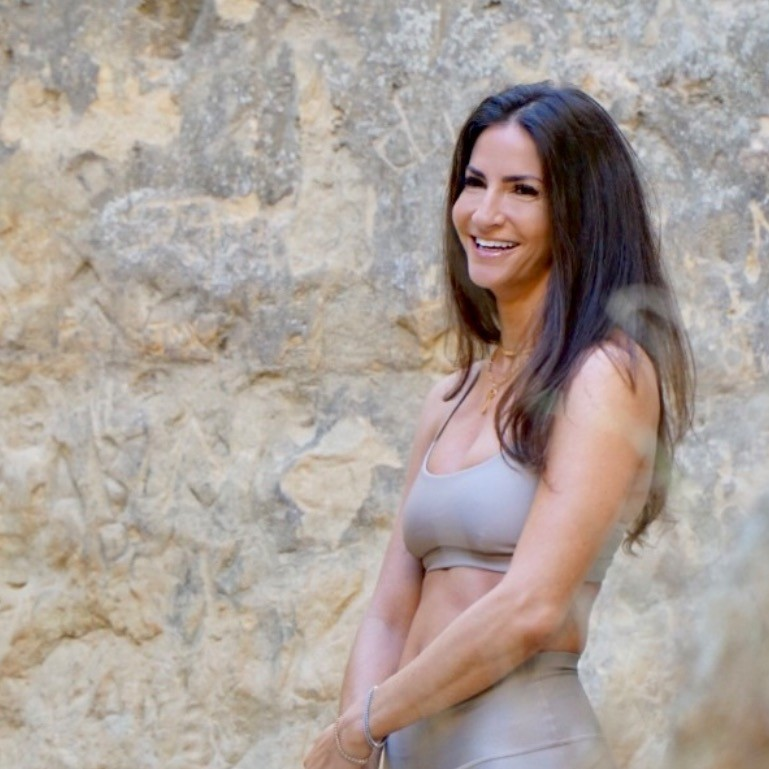
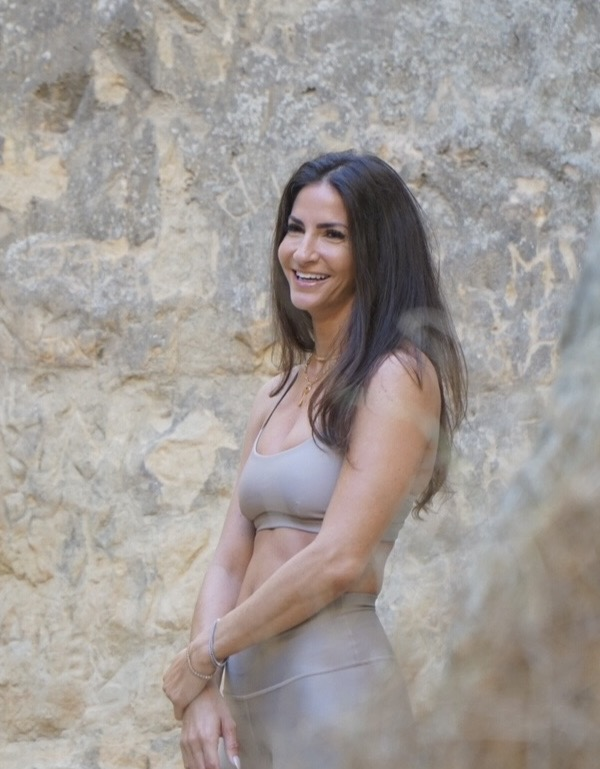
High-res portrait, mobile sticky CTA, scroll reveals, per-device polish

diff --git a/index.html b/index.html
@@ -376,6 +376,62 @@
   @media (max-width:760px){.story-grid{grid-template-columns:1fr}.story-portrait{max-width:270px;margin:0 auto}}
   .story-portrait{margin:0;padding:12px 12px 0;border:1px solid var(--band-line);border-radius:999px 999px 2px 2px}
   .story-portrait img{width:100%;display:block;border-radius:987px 987px 2px 2px}
+  /* ---------- DESKTOP FLOURISHES ---------- */
+  @media (min-width:761px){
+    .photo-wide{position:relative}
+    .photo-wide::after{
+      content:"";position:absolute;inset:16px -16px auto 16px;height:calc(100% - 32px);
+      border:1px solid var(--gold-soft);border-radius:2px;opacity:.55;pointer-events:none;
+    }
+    .story-portrait{position:relative;top:8px}
+  }
+
+  /* ---------- MOBILE TREATMENT ---------- */
+  @media (max-width:640px){
+    body{font-size:16px;line-height:1.7}
+    section{padding:60px 0 8px}
+    .hero{min-height:100svh;padding:80px 22px 96px}
+    .breath-ring{width:112px;height:112px;margin-bottom:36px}
+    .hero-meta{gap:10px;margin-bottom:36px}
+    .meta-pill{padding:9px 18px;font-size:.68rem}
+    .lede{font-size:1.4rem}
+    .band{margin-top:64px;padding:68px 22px}
+    .band p{font-size:1.18rem}
+    .invite-card{padding:40px 22px}
+    .invite-facts{gap:10px}
+    .fact{min-width:0;flex:1;padding:16px 12px}
+    .fact .n{font-size:1.9rem}
+    .form-card{padding:34px 20px}
+    .pairs li{padding:22px 2px}
+    .pairs .claim{font-size:1.22rem}
+    .proof{padding:34px 26px}
+    .photo-sec{padding:52px 0 0}
+    .remember{font-size:1.22rem;margin-top:44px}
+    .steps{margin:34px 0 40px}
+  }
+
+  /* ---------- SCROLL REVEAL ---------- */
+  .reveal{opacity:0;transform:translateY(22px);transition:opacity .8s ease,transform .8s ease}
+  .reveal.in{opacity:1;transform:none}
+  @media (prefers-reduced-motion: reduce){.reveal{opacity:1;transform:none;transition:none}}
+
+  /* ---------- MOBILE STICKY CTA ---------- */
+  .mobile-cta{
+    position:fixed;left:0;right:0;bottom:0;z-index:50;
+    display:none;align-items:center;justify-content:space-between;gap:14px;
+    background:var(--band);color:var(--band-ink);
+    border-top:1px solid var(--band-line);
+    padding:12px 18px calc(12px + env(safe-area-inset-bottom));
+    transform:translateY(110%);transition:transform .45s ease;
+  }
+  .mobile-cta.show{transform:none}
+  .mobile-cta .mc-txt{display:flex;flex-direction:column;line-height:1.35;min-width:0}
+  .mobile-cta .mc-txt b{font-family:'Cormorant Garamond',Georgia,serif;font-weight:600;font-size:1.05rem;white-space:nowrap}
+  .mobile-cta .mc-txt span{font-size:.68rem;letter-spacing:.14em;text-transform:uppercase;color:var(--gold-soft)}
+  .mobile-cta .mc-btn{padding:13px 26px;font-size:.7rem;flex:none}
+  @media (max-width:760px){.mobile-cta{display:flex}}
+  @media (prefers-reduced-motion: reduce){.mobile-cta{transition:none}}
+
   footer{
     border-top:1px solid var(--line);margin-top:96px;
     padding:44px 24px 56px;text-align:center;
@@ -617,6 +673,11 @@
   <p class="tag">Wellness · Mindfulness · Embodied Practice</p>
 </footer>
 
+<div class="mobile-cta" id="mobileCta" aria-hidden="true">
+  <div class="mc-txt"><b>The 22 Day Reset</b><span>Begins 11·11 · $111</span></div>
+  <a class="btn btn-gold mc-btn" href="#reserve">Reserve</a>
+</div>
+
 <script>
 (function(){
   var radios=document.querySelectorAll('.radio-opt');
@@ -666,6 +727,34 @@
     params.push('entry.1502971467='+encodeURIComponent(contact.value));
     window.open(FORM+'?'+params.join('&'),'_blank','noopener');
   });
+
+  var sections=document.querySelectorAll('section, .band, footer');
+  sections.forEach(function(s){s.classList.add('reveal')});
+  if('IntersectionObserver' in window){
+    var io=new IntersectionObserver(function(es){
+      es.forEach(function(e){if(e.isIntersecting){e.target.classList.add('in');io.unobserve(e.target)}});
+    },{rootMargin:'0px 0px -8% 0px'});
+    sections.forEach(function(s){io.observe(s)});
+  }else{
+    sections.forEach(function(s){s.classList.add('in')});
+  }
+
+  var bar=document.getElementById('mobileCta');
+  var reserve=document.getElementById('reserve');
+  var reserveVisible=false;
+  if('IntersectionObserver' in window){
+    new IntersectionObserver(function(es){
+      es.forEach(function(e){reserveVisible=e.isIntersecting;update()});
+    },{threshold:.05}).observe(reserve);
+  }
+  function update(){
+    var past=window.scrollY>window.innerHeight*.85;
+    var show=past&&!reserveVisible;
+    bar.classList.toggle('show',show);
+    bar.setAttribute('aria-hidden',show?'false':'true');
+  }
+  window.addEventListener('scroll',update,{passive:true});
+  update();
 })();
 </script>
 

diff --git a/wellness/index.html b/wellness/index.html
@@ -485,6 +485,25 @@
     margin-top:6px;
   }
 
+  @media (max-width:640px){
+    body{font-size:16px;line-height:1.7}
+    section.practice{padding:60px 0 8px}
+    .hero{min-height:100svh;padding:80px 22px 72px}
+    .breath-ring{width:112px;height:112px;margin-bottom:36px}
+    .intro{padding:64px 0 16px}
+    .intro p.lede{font-size:1.32rem}
+    .band{padding:72px 20px 80px;margin-top:64px}
+    .litany .word{font-size:1.55rem}
+    .ritual{padding:28px 22px}
+    .breath-card{padding:34px 22px}
+    .remember{font-size:1.2rem}
+    .closing{padding:64px 0 32px}
+    .cta-card{padding:36px 24px}
+  }
+  .reveal{opacity:0;transform:translateY(22px);transition:opacity .8s ease,transform .8s ease}
+  .reveal.in{opacity:1;transform:none}
+  @media (prefers-reduced-motion: reduce){.reveal{opacity:1;transform:none;transition:none}}
+
   footer{
     border-top:1px solid var(--line);
     margin-top:72px;
@@ -763,6 +782,15 @@
     }
     next();
   });
+
+  var sections=document.querySelectorAll('section, .band, .closing, footer');
+  sections.forEach(function(s){s.classList.add('reveal')});
+  if('IntersectionObserver' in window){
+    var io=new IntersectionObserver(function(es){
+      es.forEach(function(e){if(e.isIntersecting){e.target.classList.add('in');io.unobserve(e.target)}});
+    },{rootMargin:'0px 0px -8% 0px'});
+    sections.forEach(function(s){io.observe(s)});
+  }else{sections.forEach(function(s){s.classList.add('in')})}
 })();
 </script>
 
